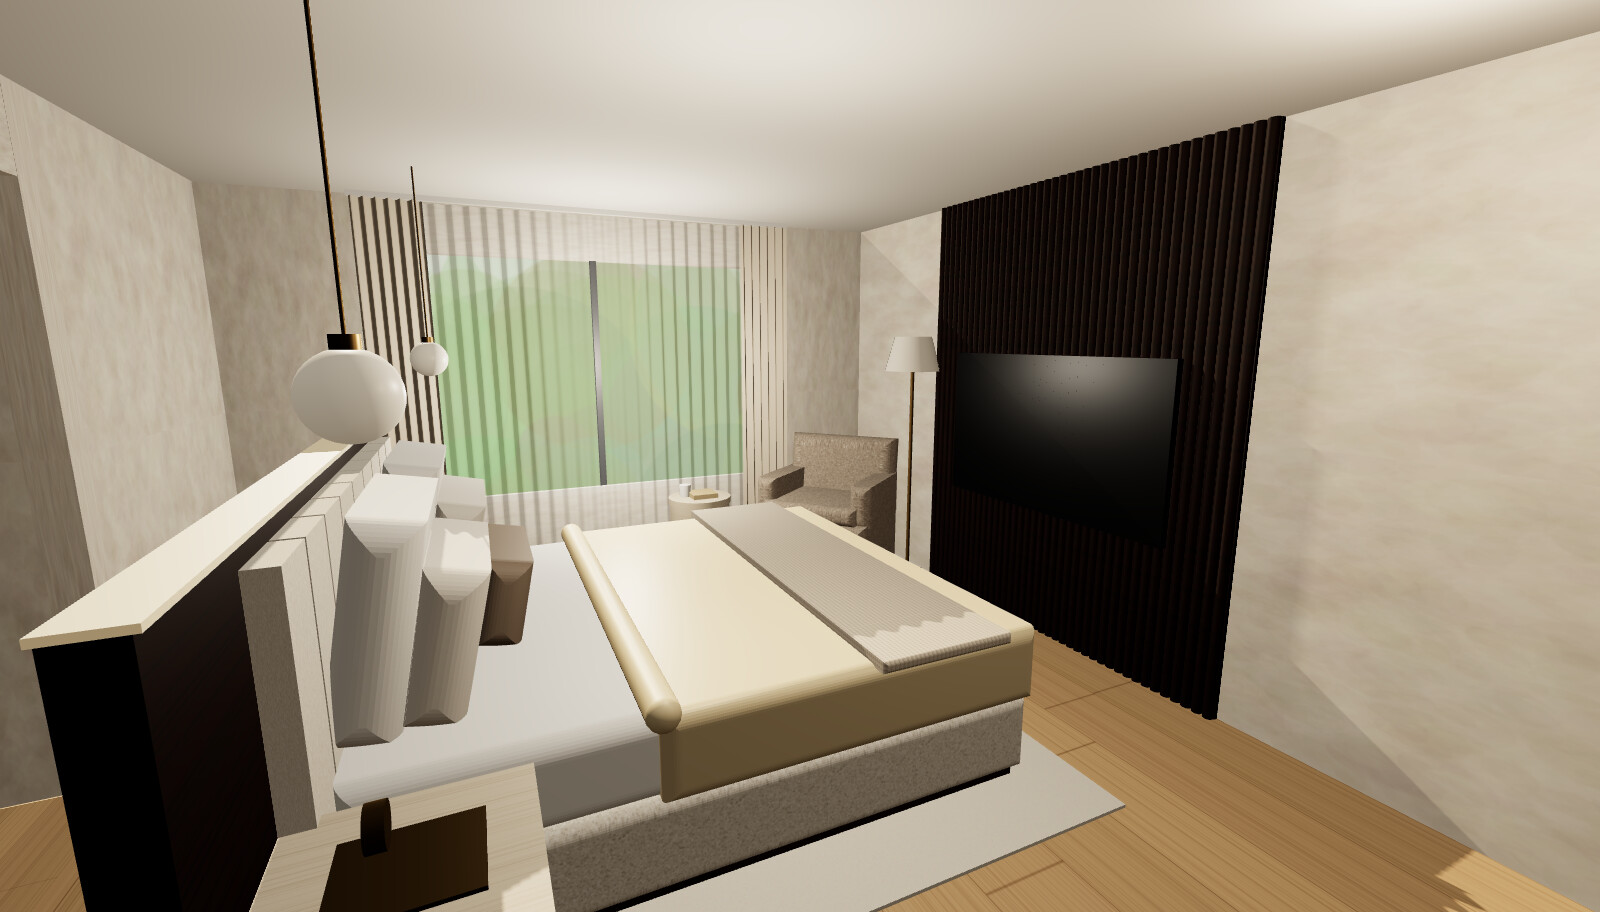
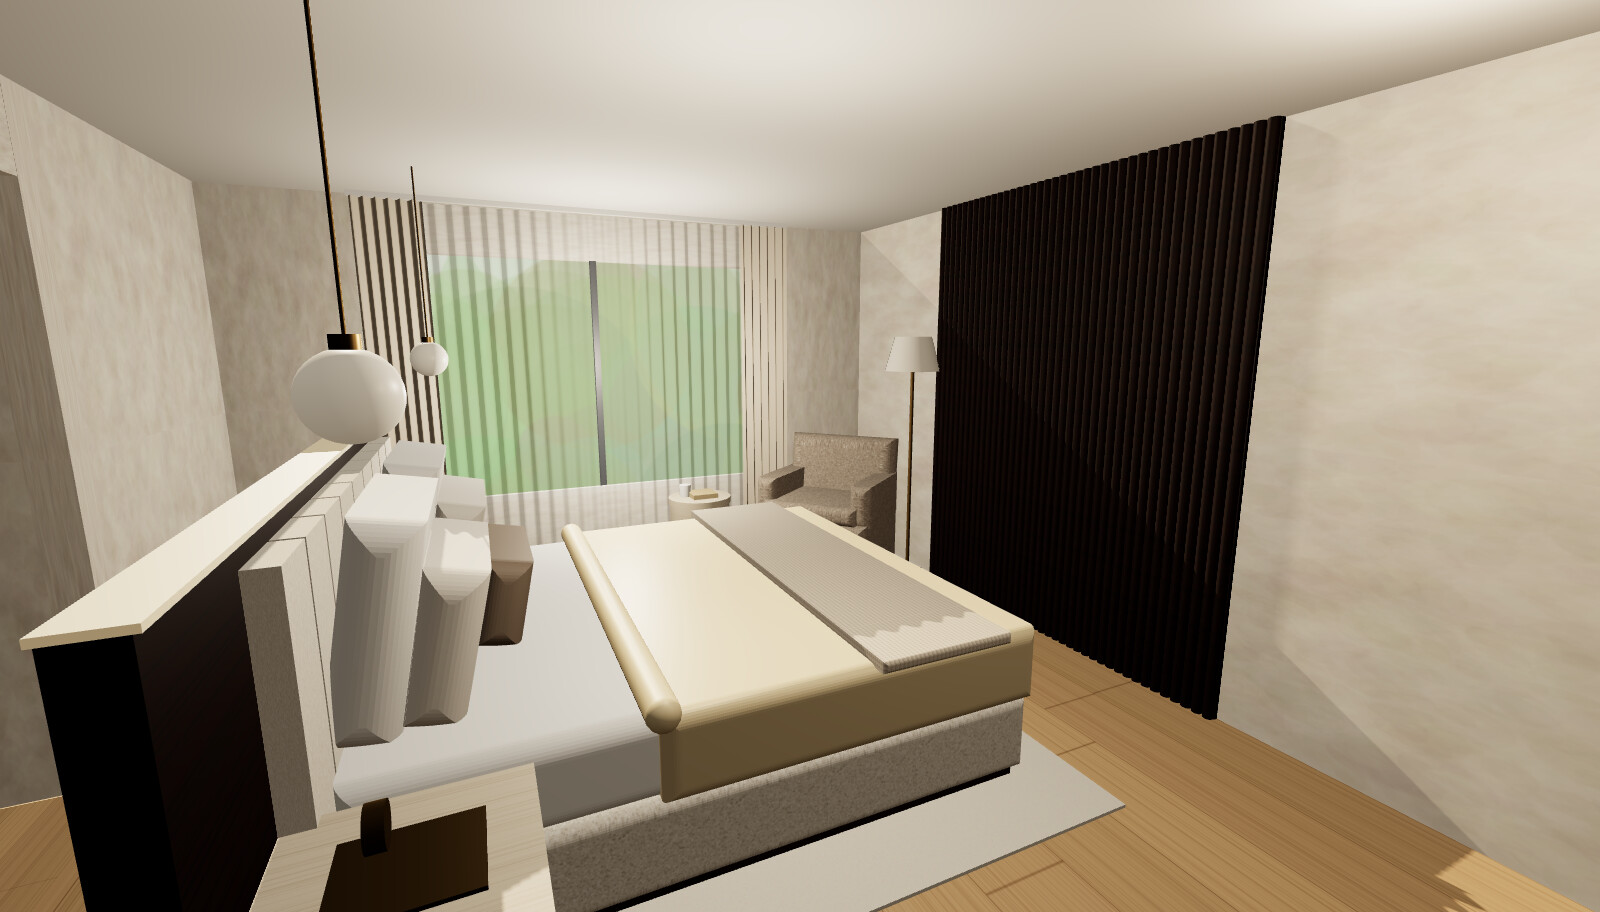
Remove TV; west wall becomes fluted walnut feature wall
Claude-Session: https://claude.ai/code/session_01P4LkCESWoGV8P5QgBbWSmy

Changed region(s): [[0.5938, 0.3684, 0.75, 0.4912], [0.7188, 0.5526, 0.75, 0.5833]]

diff --git a/renders/bedroom-1-3d.html b/renders/bedroom-1-3d.html
@@ -143,11 +143,10 @@ cyl(3.05,0.72,3.9,0.004,0.004,0.1,mat('#5d7a4c',0.8),6); pillow(3.05,0.78,3.9,0.
 // north nightstand: small clock + tray
 box(2.8,3.08,0.56,0.57,1.5,1.75,brass); cyl(3.0,0.62,1.7,0.05,0.05,0.04,brass).rotation.z=Math.PI/2;
 
-// ---------- TV wall (west), centred on bed z = 2.85 ----------
+// ---------- Feature wall (west): fluted walnut panelling centred on bed z = 2.85, no TV ----------
 for(let i=0;i<40;i++){ const z0=1.85+i*0.05; const fl=cyl(0.025,CH/2,z0+0.025,0.022,0.022,CH,walnut,12); }
 box(0,0.02,0,CH,1.85,3.85,walnut);
-box(0.045,0.085,0.685,1.515,2.125,3.575,black);              // 65" TV, off
-// (no TV unit - TV only, cables concealed in wall)
+// (no TV, no TV unit)
 
 // ---------- Lounge nook (SW corner) ----------
 const nook=new THREE.Group(); nook.position.set(0.58,0,4.32); nook.rotation.y=Math.PI*0.72; scene.add(nook);
